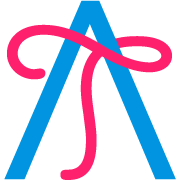
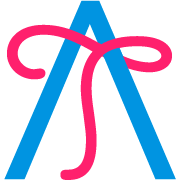
front-16

Changed region(s): [[0.5556, 0.1944, 0.7222, 0.3889]]

diff --git a/wp-content/themes/tarot-bc/header.php b/wp-content/themes/tarot-bc/header.php
@@ -75,7 +75,7 @@
                   <!-- Collect the nav links, forms, and other content for toggling -->
                   <div class="collapse navbar-collapse" id="bs-example-navbar-collapse-1">
                     <div class="close_menu">×</div>
-                    <a class="menu_logo" href="/"><img src="<?php bloginfo('template_url'); ?>/img/school_logo_new.png" alt="" class="img-responsive logo"></a>
+                    <a class="menu_logo" href="/"><img src="<?php bloginfo('template_url'); ?>/img/fav180.png" alt="" class="img-responsive logo"></a>
                   <!-- <div id="bs-example-navbar-collapse-1"> -->
                     
                     <ul class="nav navbar-nav navbar-left">
